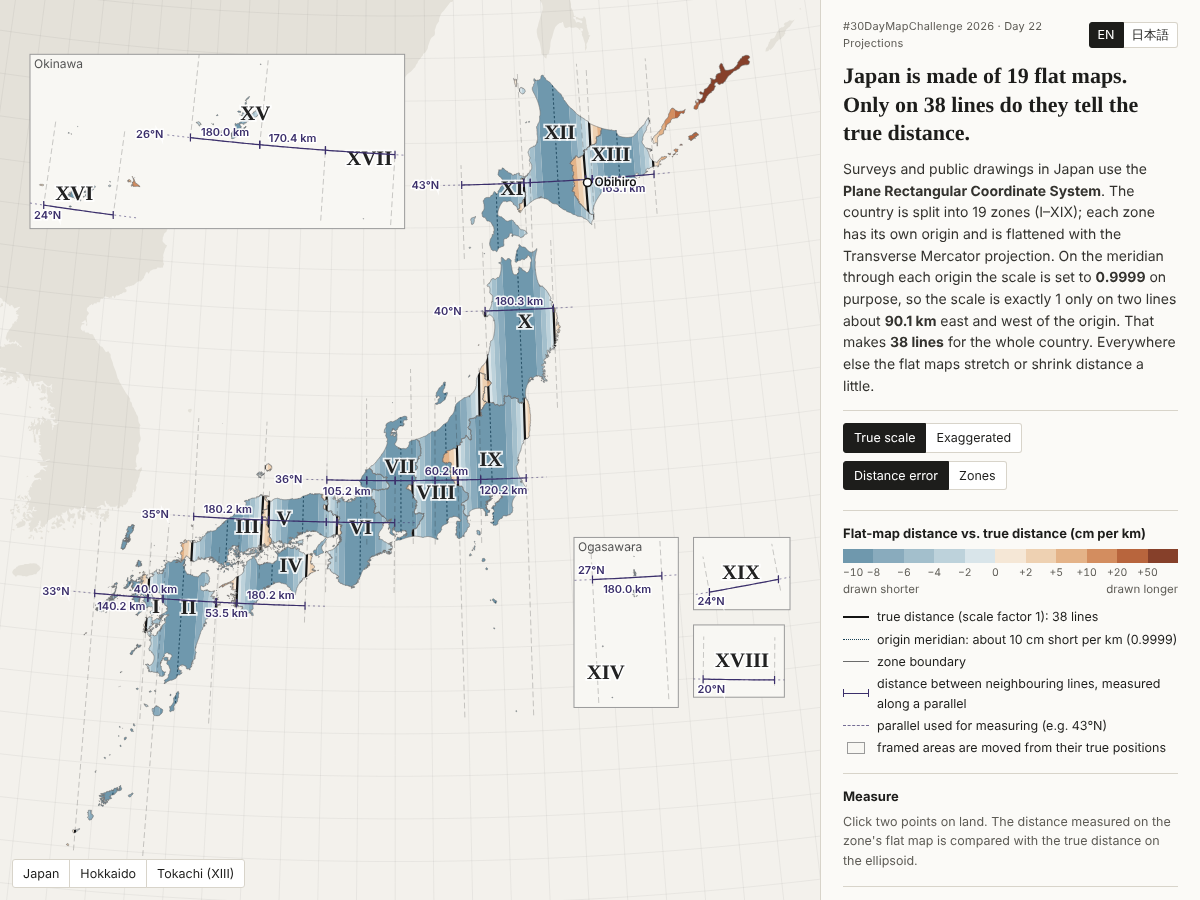
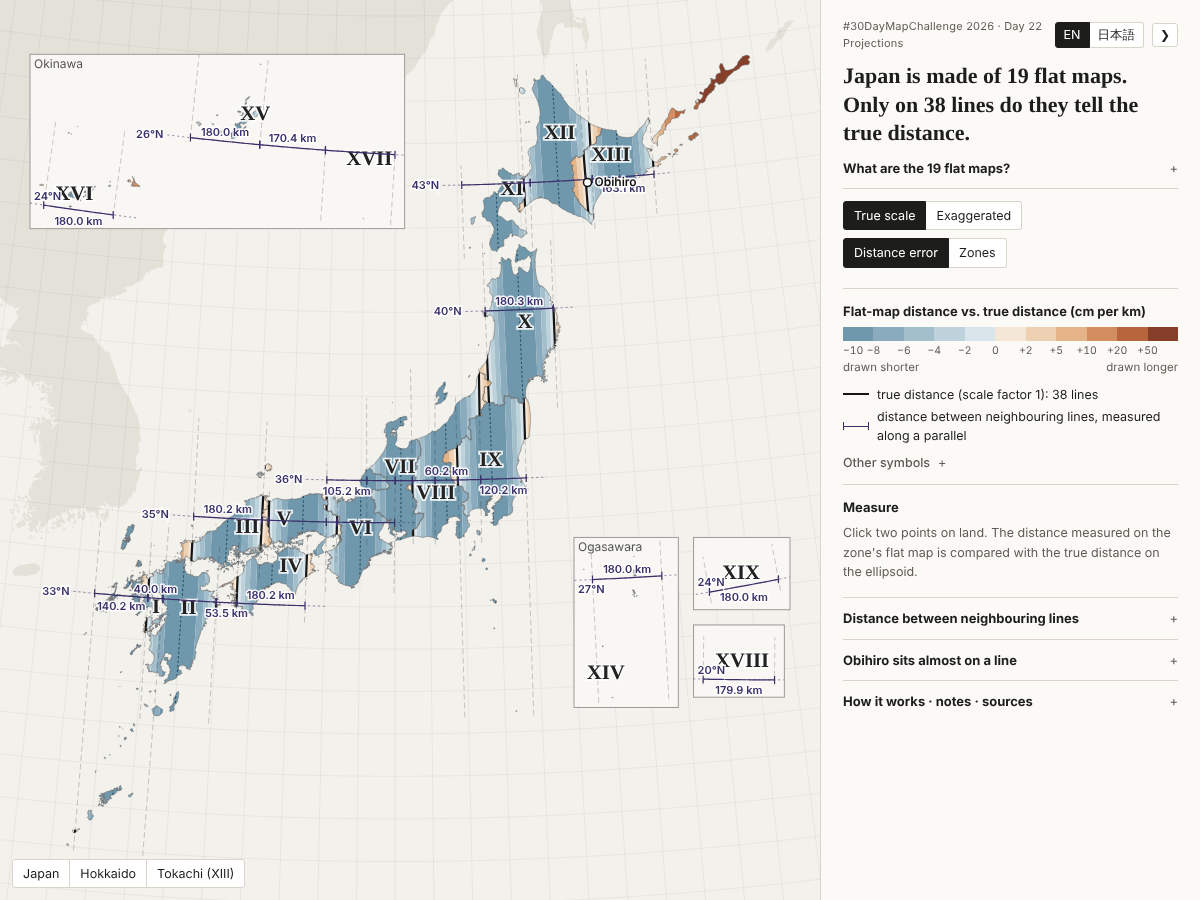
Fold explanations in the panel and allow hiding the panel

diff --git a/web/app.js b/web/app.js
@@ -386,7 +386,28 @@
   function drawGaps() {
     if (state.mode === "exag") return;
     ctx.font = "600 11px system-ui, -apple-system, 'Segoe UI', sans-serif";
-    // the parallel each row is measured along, with its latitude
+    ctx.textAlign = "center"; ctx.textBaseline = "bottom";
+    for (const row of gaps) for (const it of row.items) {
+      const pts = gapPoints(row.lat, it.a.lon, it.b.lon, it.a.zone);
+      const [x0, y0] = pts[0], [x1, y1] = pts[pts.length - 1];
+      if (Math.max(x0, x1) < 0 || Math.min(x0, x1) > W || Math.max(y0, y1) < -20 || Math.min(y0, y1) > H + 20) continue;
+      ctx.strokeStyle = "#3b2f6b"; ctx.lineWidth = 1.2; ctx.setLineDash([]);
+      ctx.beginPath(); pts.forEach(([x, y], i) => (i ? ctx.lineTo(x, y) : ctx.moveTo(x, y))); ctx.stroke();
+      ctx.beginPath(); ctx.moveTo(x0, y0 - 4); ctx.lineTo(x0, y0 + 4); ctx.moveTo(x1, y1 - 4); ctx.lineTo(x1, y1 + 4); ctx.stroke();
+      const label = gapLabel(it.m), tw = ctx.measureText(label).width;
+      const [mx, my] = pts[8];
+      // labels that don't fit between the ticks go below the line
+      const fits = Math.hypot(x1 - x0, y1 - y0) >= tw + 6;
+      if (!fits && Math.hypot(x1 - x0, y1 - y0) < 4) continue;
+      // try above the line (if it fits between the ticks), then below; skip if both collide
+      const hit = (r) => placed.some((q) => r[0] < q[2] && r[2] > q[0] && r[1] < q[3] && r[3] > q[1]);
+      const ly = (fits ? [my - 3, my + 17] : [my + 17, my - 3]).find((y) => !hit([mx - tw / 2 - 2, y - 13, mx + tw / 2 + 2, y]));
+      if (ly === undefined) continue;
+      placed.push([mx - tw / 2 - 2, ly - 13, mx + tw / 2 + 2, ly]);
+      ctx.lineWidth = 3; ctx.strokeStyle = "rgba(255,255,255,0.9)"; ctx.strokeText(label, mx, ly);
+      ctx.fillStyle = "#3b2f6b"; ctx.fillText(label, mx, ly);
+    }
+    // the parallel each row is measured along, with its latitude (labels placed after the distances)
     for (const row of gaps) {
       if (!row.items.length) continue;
       const lons = row.items.flatMap((it) => [it.a.lon, it.b.lon]);
@@ -405,7 +426,7 @@
       ctx.beginPath(); pts.forEach(([x, y], i) => (i ? ctx.lineTo(x, y) : ctx.moveTo(x, y))); ctx.stroke();
       ctx.setLineDash([]);
       ctx.restore();
-      const label = t("gapLat", { lat: row.lat.toFixed(0) }), tw = ctx.measureText(label).width;
+      const label = W < 600 ? row.lat.toFixed(0) + "°N" : t("gapLat", { lat: row.lat.toFixed(0) }), tw = ctx.measureText(label).width;
       const yAt = (x) => { // y of the parallel at screen x
         for (let i = 1; i < pts.length; i++) {
           const [xa, ya] = pts[i - 1], [xb, yb] = pts[i];
@@ -427,27 +448,6 @@
       placed.push(align === "right" ? [lx - tw - 2, ly - 7, lx + 2, ly + 7] : [lx - 2, ly - 7, lx + tw + 2, ly + 7]);
       ctx.lineWidth = 3; ctx.strokeStyle = "rgba(255,255,255,0.9)"; ctx.strokeText(label, lx, ly);
       ctx.fillStyle = "#3b2f6b"; ctx.fillText(label, lx, ly);
-    }
-    ctx.textAlign = "center"; ctx.textBaseline = "bottom";
-    for (const row of gaps) for (const it of row.items) {
-      const pts = gapPoints(row.lat, it.a.lon, it.b.lon, it.a.zone);
-      const [x0, y0] = pts[0], [x1, y1] = pts[pts.length - 1];
-      if (Math.max(x0, x1) < 0 || Math.min(x0, x1) > W || Math.max(y0, y1) < -20 || Math.min(y0, y1) > H + 20) continue;
-      ctx.strokeStyle = "#3b2f6b"; ctx.lineWidth = 1.2; ctx.setLineDash([]);
-      ctx.beginPath(); pts.forEach(([x, y], i) => (i ? ctx.lineTo(x, y) : ctx.moveTo(x, y))); ctx.stroke();
-      ctx.beginPath(); ctx.moveTo(x0, y0 - 4); ctx.lineTo(x0, y0 + 4); ctx.moveTo(x1, y1 - 4); ctx.lineTo(x1, y1 + 4); ctx.stroke();
-      const label = gapLabel(it.m), tw = ctx.measureText(label).width;
-      const [mx, my] = pts[8];
-      // labels that don't fit between the ticks go below the line
-      const fits = Math.hypot(x1 - x0, y1 - y0) >= tw + 6;
-      if (!fits && Math.hypot(x1 - x0, y1 - y0) < 4) continue;
-      // try above the line (if it fits between the ticks), then below; skip if both collide
-      const hit = (r) => placed.some((q) => r[0] < q[2] && r[2] > q[0] && r[1] < q[3] && r[3] > q[1]);
-      const ly = (fits ? [my - 3, my + 17] : [my + 17, my - 3]).find((y) => !hit([mx - tw / 2 - 2, y - 13, mx + tw / 2 + 2, y]));
-      if (ly === undefined) continue;
-      placed.push([mx - tw / 2 - 2, ly - 13, mx + tw / 2 + 2, ly]);
-      ctx.lineWidth = 3; ctx.strokeStyle = "rgba(255,255,255,0.9)"; ctx.strokeText(label, mx, ly);
-      ctx.fillStyle = "#3b2f6b"; ctx.fillText(label, mx, ly);
     }
     ctx.textAlign = "left";
   }
@@ -524,6 +524,7 @@
   }
   // screen -> lon/lat (true-scale view only), taking moved frames into account
   function pick(sx, sy) {
+    if (!cache) return null; // data not loaded yet
     const wx = (sx - view.x) / view.k, wy = (sy - view.y) / view.k;
     const cands = [];
     for (const ins of INSETS) {
@@ -634,6 +635,9 @@
     document.documentElement.lang = state.lang;
     document.querySelectorAll("[data-i18n]").forEach((el) => { el.textContent = t(el.dataset.i18n); });
     document.querySelectorAll("[data-i18n-html]").forEach((el) => { el.innerHTML = t(el.dataset.i18nHtml); });
+    document.querySelectorAll("[data-i18n-title]").forEach((el) => {
+      el.title = t(el.dataset.i18nTitle); el.setAttribute("aria-label", el.title);
+    });
     document.querySelectorAll("[data-lang]").forEach((b) => b.classList.toggle("on", b.dataset.lang === state.lang));
     document.getElementById("factor-val").textContent = "×" + fmt(state.factor, 0);
     updateBadge(); renderMeasure(); renderLegend(); renderGaps(); requestDraw();
@@ -689,6 +693,18 @@
     const go = (ev) => { const tr = ev.target.closest("tr[data-row]"); if (tr) zoomToGap(+tr.dataset.row, +tr.dataset.item); };
     gl.addEventListener("click", go);
     gl.addEventListener("keydown", (ev) => { if (ev.key === "Enter") go(ev); });
+    // desktop: the panel can be hidden to give the map the whole window
+    const setPanel = (show) => {
+      document.body.classList.toggle("panel-hidden", !show);
+      document.getElementById("panel-show").hidden = show;
+      try { localStorage.setItem("panel", show ? "1" : "0"); } catch (e) { /* ignore */ }
+      const c = [view.k, (W / 2 - view.x) / view.k, (H / 2 - view.y) / view.k];
+      resize();
+      d3.select(canvas).call(zoom.transform, d3.zoomIdentity.translate(W / 2 - c[0] * c[1], H / 2 - c[0] * c[2]).scale(c[0]));
+    };
+    document.getElementById("panel-hide").addEventListener("click", () => setPanel(false));
+    document.getElementById("panel-show").addEventListener("click", () => setPanel(true));
+    try { if (localStorage.getItem("panel") === "0") { document.body.classList.add("panel-hidden"); document.getElementById("panel-show").hidden = false; } } catch (e) { /* ignore */ }
     canvas.addEventListener("click", onClick);
     canvas.addEventListener("mousemove", onMove);
     canvas.addEventListener("mouseleave", () => { hover.hidden = true; });

diff --git a/web/index.html b/web/index.html
@@ -28,10 +28,14 @@
         <button data-lang="en" class="on">EN</button>
         <button data-lang="ja">日本語</button>
       </div>
+      <button id="panel-hide" class="icon-btn" data-i18n-title="hidePanel" title="Hide panel" aria-label="Hide panel">&#x276F;</button>
     </div>
 
     <h1 data-i18n="title">Japan is made of 19 flat maps. Only on 38 lines do they tell the true distance.</h1>
-    <p class="lead" data-i18n-html="lead"></p>
+    <details class="fold" id="intro">
+      <summary data-i18n="introTitle">What are the 19 flat maps?</summary>
+      <p class="lead" data-i18n-html="lead"></p>
+    </details>
 
     <section class="controls">
       <div class="seg" role="group" id="mode">
@@ -45,7 +49,10 @@
       <div id="exag-ctl" hidden>
         <label for="factor"><span data-i18n="factorLabel">Exaggeration</span> <b id="factor-val">×500</b></label>
         <input type="range" id="factor" min="100" max="1000" step="100" value="500">
-        <p class="small" data-i18n="exagNote"></p>
+        <details class="fold small-fold">
+          <summary data-i18n="exagHow">How the exaggeration works</summary>
+          <p class="small" data-i18n="exagNote"></p>
+        </details>
       </div>
     </section>
 
@@ -55,12 +62,17 @@
       <div class="legend-ends"><span data-i18n="shorter">shorter</span><span data-i18n="longer">longer</span></div>
       <div class="legend-keys">
         <div><i class="key k1"></i><span data-i18n="keyK1">true distance (scale factor 1) — 38 lines</span></div>
-        <div><i class="key cm"></i><span data-i18n="keyCM">origin meridian: 10 cm short per km (0.9999)</span></div>
-        <div><i class="key zb"></i><span data-i18n="keyZB">zone boundary</span></div>
         <div><i class="key gp"></i><span data-i18n="keyGap">east–west distance between neighbouring lines</span></div>
-        <div><i class="key par"></i><span data-i18n="keyPar">parallel used for measuring</span></div>
-        <div><i class="key fr"></i><span data-i18n="keyFrame">framed areas are moved from their true positions</span></div>
       </div>
+      <details class="fold small-fold">
+        <summary data-i18n="moreKeys">Other symbols</summary>
+        <div class="legend-keys">
+          <div><i class="key par"></i><span data-i18n="keyPar">parallel used for measuring</span></div>
+          <div><i class="key cm"></i><span data-i18n="keyCM">origin meridian: 10 cm short per km (0.9999)</span></div>
+          <div><i class="key zb"></i><span data-i18n="keyZB">zone boundary</span></div>
+          <div><i class="key fr"></i><span data-i18n="keyFrame">framed areas are moved from their true positions</span></div>
+        </div>
+      </details>
     </section>
 
     <section id="measure">
@@ -68,22 +80,23 @@
       <div id="measure-out"><p class="small" data-i18n="measureHint"></p></div>
     </section>
 
-    <section id="gaps">
-      <h2 data-i18n="gapsTitle">Distance between neighbouring lines</h2>
+    <details class="fold" id="gaps">
+      <summary data-i18n="gapsTitle">Distance between neighbouring lines</summary>
       <p class="small" data-i18n="gapsNote"></p>
       <table class="gtable"><tbody id="gaps-list"></tbody></table>
-    </section>
+    </details>
 
-    <section id="obihiro">
-      <h2 data-i18n="obihiroTitle">Obihiro</h2>
+    <details class="fold" id="obihiro">
+      <summary data-i18n="obihiroTitle">Obihiro</summary>
       <p data-i18n-html="obihiroText"></p>
-    </section>
+    </details>
 
-    <details id="about">
+    <details class="fold" id="about">
       <summary data-i18n="aboutTitle">How it works · notes · sources</summary>
       <div data-i18n-html="aboutText"></div>
     </details>
   </aside>
+  <button id="panel-show" class="icon-btn" hidden data-i18n-title="showPanel" title="Show panel" aria-label="Show panel">&#x276E;</button>
 </div>
 <script src="vendor/d3.min.js"></script>
 <script src="vendor/proj4.js"></script>

diff --git a/web/style.css b/web/style.css
@@ -82,8 +82,7 @@ button { font: inherit; cursor: pointer; }
 .gtable td { padding: 2px 4px 2px 0; border-bottom: 1px solid #eeebe3; }
 .gtable td:last-child { text-align: right; white-space: nowrap; color: #3b2f6b; font-weight: 600; }
 #obihiro p { margin: 0; }
-details { border-top: 1px solid var(--line); padding-top: 10px; font-size: 13px; }
-summary { cursor: pointer; font-weight: 650; font-size: 13px; }
+details#about > div { font-size: 13px; }
 details ul { padding-left: 18px; margin: 4px 0; }
 details li { margin: 3px 0; }
 details p { margin: 4px 0 8px; }
@@ -110,10 +109,40 @@ details p { margin: 4px 0 8px; }
   #panel > h1 { order: 1; }
   #map-wrap { order: 2; flex: none; height: 62vh; height: 62svh; border-top: 1px solid var(--line); border-bottom: 1px solid var(--line); }
   #panel > .lead { margin-top: 14px; }
-  #panel > details { margin-bottom: 28px; }
+  #panel > details#about { margin-bottom: 28px; }
   h1 { font-size: 19px; }
   html[lang="ja"] h1 { font-size: 17px; }
   #badge { font-size: 12.5px; top: 8px; }
   #zoom-presets { left: 8px; bottom: 8px; }
   #zoom-presets button { padding: 4px 8px; font-size: 12px; }
+}
+
+/* folding sections */
+details.fold { border-top: 1px solid var(--line); padding: 10px 0; }
+details.fold > summary {
+  cursor: pointer; list-style: none; font-weight: 650; font-size: 13px; display: flex; justify-content: space-between; gap: 8px;
+}
+details.fold > summary::-webkit-details-marker { display: none; }
+details.fold > summary::after { content: "+"; color: var(--muted); font-weight: 400; }
+details.fold[open] > summary::after { content: "−"; }
+details.fold[open] > summary { margin-bottom: 6px; }
+details.small-fold { border-top: 0; padding: 4px 0 0; }
+details.small-fold > summary { font-weight: 500; font-size: 12.5px; color: var(--muted); justify-content: flex-start; }
+#intro { border-top: 0; padding-top: 0; }
+#intro .lead { margin: 0; }
+details#about { padding-top: 10px; }
+
+.topbar { flex-wrap: nowrap; }
+.topbar .tag { flex: 1; }
+.icon-btn {
+  border: 1px solid var(--line); background: #fff; color: var(--ink); border-radius: 3px;
+  width: 26px; height: 24px; padding: 0; font-size: 12px; line-height: 1; flex: none;
+}
+#panel-show { position: fixed; top: 12px; right: 12px; z-index: 5; }
+body.panel-hidden #panel { display: none; }
+
+@media (max-width: 760px) {
+  #panel-hide, #panel-show { display: none !important; }
+  body.panel-hidden #panel { display: contents; }
+  #panel > details.fold { padding-left: 0; padding-right: 0; }
 }

diff --git a/web/i18n.js b/web/i18n.js
@@ -9,6 +9,11 @@ window.I18N = {
       "to <b>0.9999</b> on purpose, so the scale is exactly 1 only on two lines about <b>{k1km} km</b> " +
       "east and west of the origin. That makes <b>38 lines</b> for the whole country. Everywhere else " +
       "the flat maps stretch or shrink distance a little.",
+    introTitle: "What are the 19 flat maps?",
+    exagHow: "How the exaggeration works",
+    moreKeys: "Other symbols",
+    hidePanel: "Hide panel",
+    showPanel: "Show panel",
     modeTrue: "True scale",
     modeExag: "Exaggerated",
     fillDist: "Distance error",
@@ -98,6 +103,11 @@ window.I18N = {
       "区域ごとに原点を置いて横メルカトル図法で平面にします。原点を通る南北の線では縮尺をわざと<b>0.9999倍</b>にしているため、" +
       "縮尺がちょうど1倍になるのは、原点から東西に約<b>{k1km} km</b>離れた2本の線の上だけです。19区域で<b>38本</b>。" +
       "それ以外の場所では、平らな地図は距離をわずかに伸ばすか縮めています。",
+    introTitle: "19枚の平らな地図とは",
+    exagHow: "誇張のしかた",
+    moreKeys: "そのほかの記号",
+    hidePanel: "パネルを隠す",
+    showPanel: "パネルを表示",
     modeTrue: "実際の縮尺",
     modeExag: "誇張",
     fillDist: "距離のずれ",

diff --git a/README.md b/README.md
@@ -22,6 +22,8 @@
 - 「誇張」モードでは、歪みを数百倍（初期値500倍、100〜1000倍で変更可）に誇張し、19枚の平らな地図をそれぞれの位置に置いたときに、区域の境目にできる隙間や重なりを見せます。倍率は画面上部に常に表示します。
 - 沖縄（第XV〜XVII系）と遠い島の系（第XIV系 小笠原、第XVIII系 沖ノ鳥島、第XIX系 南鳥島）は、位置をずらした枠で示しています。
 
+画面右のパネルは、説明・一覧・注記を折りたたんで表示します。パソコンでは右上のボタンでパネルを隠し、地図を画面いっぱいに表示できます。
+
 URL パラメータ: `lang=ja|en`、`view=japan|hokkaido|tokachi`、`mode=exag`
 
 ## 平面直角座標系とは
